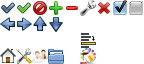
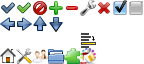
Общие работы над АИ.

Changed region(s): [[0.4444, 0.75, 0.5556, 1.0]]

diff --git a/src/admin/themes/default/blocks/side-menu/__link/side-menu__link.css b/src/admin/themes/default/blocks/side-menu/__link/side-menu__link.css
@@ -1,0 +1,16 @@
+.side-menu__link,
+.side-menu__link:visited
+{
+    color: #08c;
+    display: block;
+    padding: 1px 5px;
+    text-decoration: none;
+}
+
+.side-menu__link:hover,
+.side-menu__link:active,
+.side-menu__item_is_current > .side-menu__link
+{
+    color: red;
+    text-decoration: none;
+}

diff --git a/src/admin/themes/default/blocks/icon/_img/icon_img_plugin.css b/src/admin/themes/default/blocks/icon/_img/icon_img_plugin.css
@@ -1,0 +1,5 @@
+.icon_img_plugin
+{
+    background-image: url(img/icons-16.png);
+    background-position: -64px -48px;
+}

diff --git a/src/admin/themes/default/blocks/side-menu/side-menu.css b/src/admin/themes/default/blocks/side-menu/side-menu.css
@@ -1,0 +1,8 @@
+/**
+ * Боковое меню
+ */
+.side-menu
+{
+    list-style: none;
+    padding: 0;
+}

diff --git a/src/admin/themes/default/blocks/side-menu/__item/side-menu__item.css b/src/admin/themes/default/blocks/side-menu/__item/side-menu__item.css
@@ -1,0 +1,8 @@
+.side-menu__item
+{
+    display: block;
+}
+
+.side-menu__item:hover
+{
+}

diff --git a/src/admin/themes/default/blocks/side-menu/__item/_is/side-menu__item_is_current.css b/src/admin/themes/default/blocks/side-menu/__item/_is/side-menu__item_is_current.css
@@ -1,0 +1,3 @@
+.side-menu__item.side-menu__item_is_current
+{
+}

diff --git a/src/core/Eresus/CmsBundle/Controller/AdminSettingsController.php b/src/core/Eresus/CmsBundle/Controller/AdminSettingsController.php
@@ -78,10 +78,37 @@ class AdminSettingsController extends AdminAbstractController
             }
         }
 
-        $data = array(
-            'form' => $form->createView()
+        $vars = $this->createTemplateVars();
+        $vars['form'] = $form->createView();
+
+        return $this->render('CmsBundle:Settings:dialog.html.twig', $vars);
+    }
+
+    /**
+     * @param Request $request
+     *
+     * @return Response
+     *
+     * @since 4.0.0
+     */
+    public function pluginsAction(Request $request)
+    {
+        $vars = $this->createTemplateVars();
+        return $this->render('CmsBundle:Settings:base.html.twig', $vars);
+    }
+
+    /**
+     * Возвращает массив переменных для подстановки в шаблон
+     *
+     * @return array
+     *
+     * @since 4.0.0
+     */
+    private function createTemplateVars()
+    {
+        return array(
+            'mainMenuRoute' => 'admin.settings',
         );
-        return $this->render('CmsBundle:Settings:dialog.html.twig', $data);
     }
 }
 
